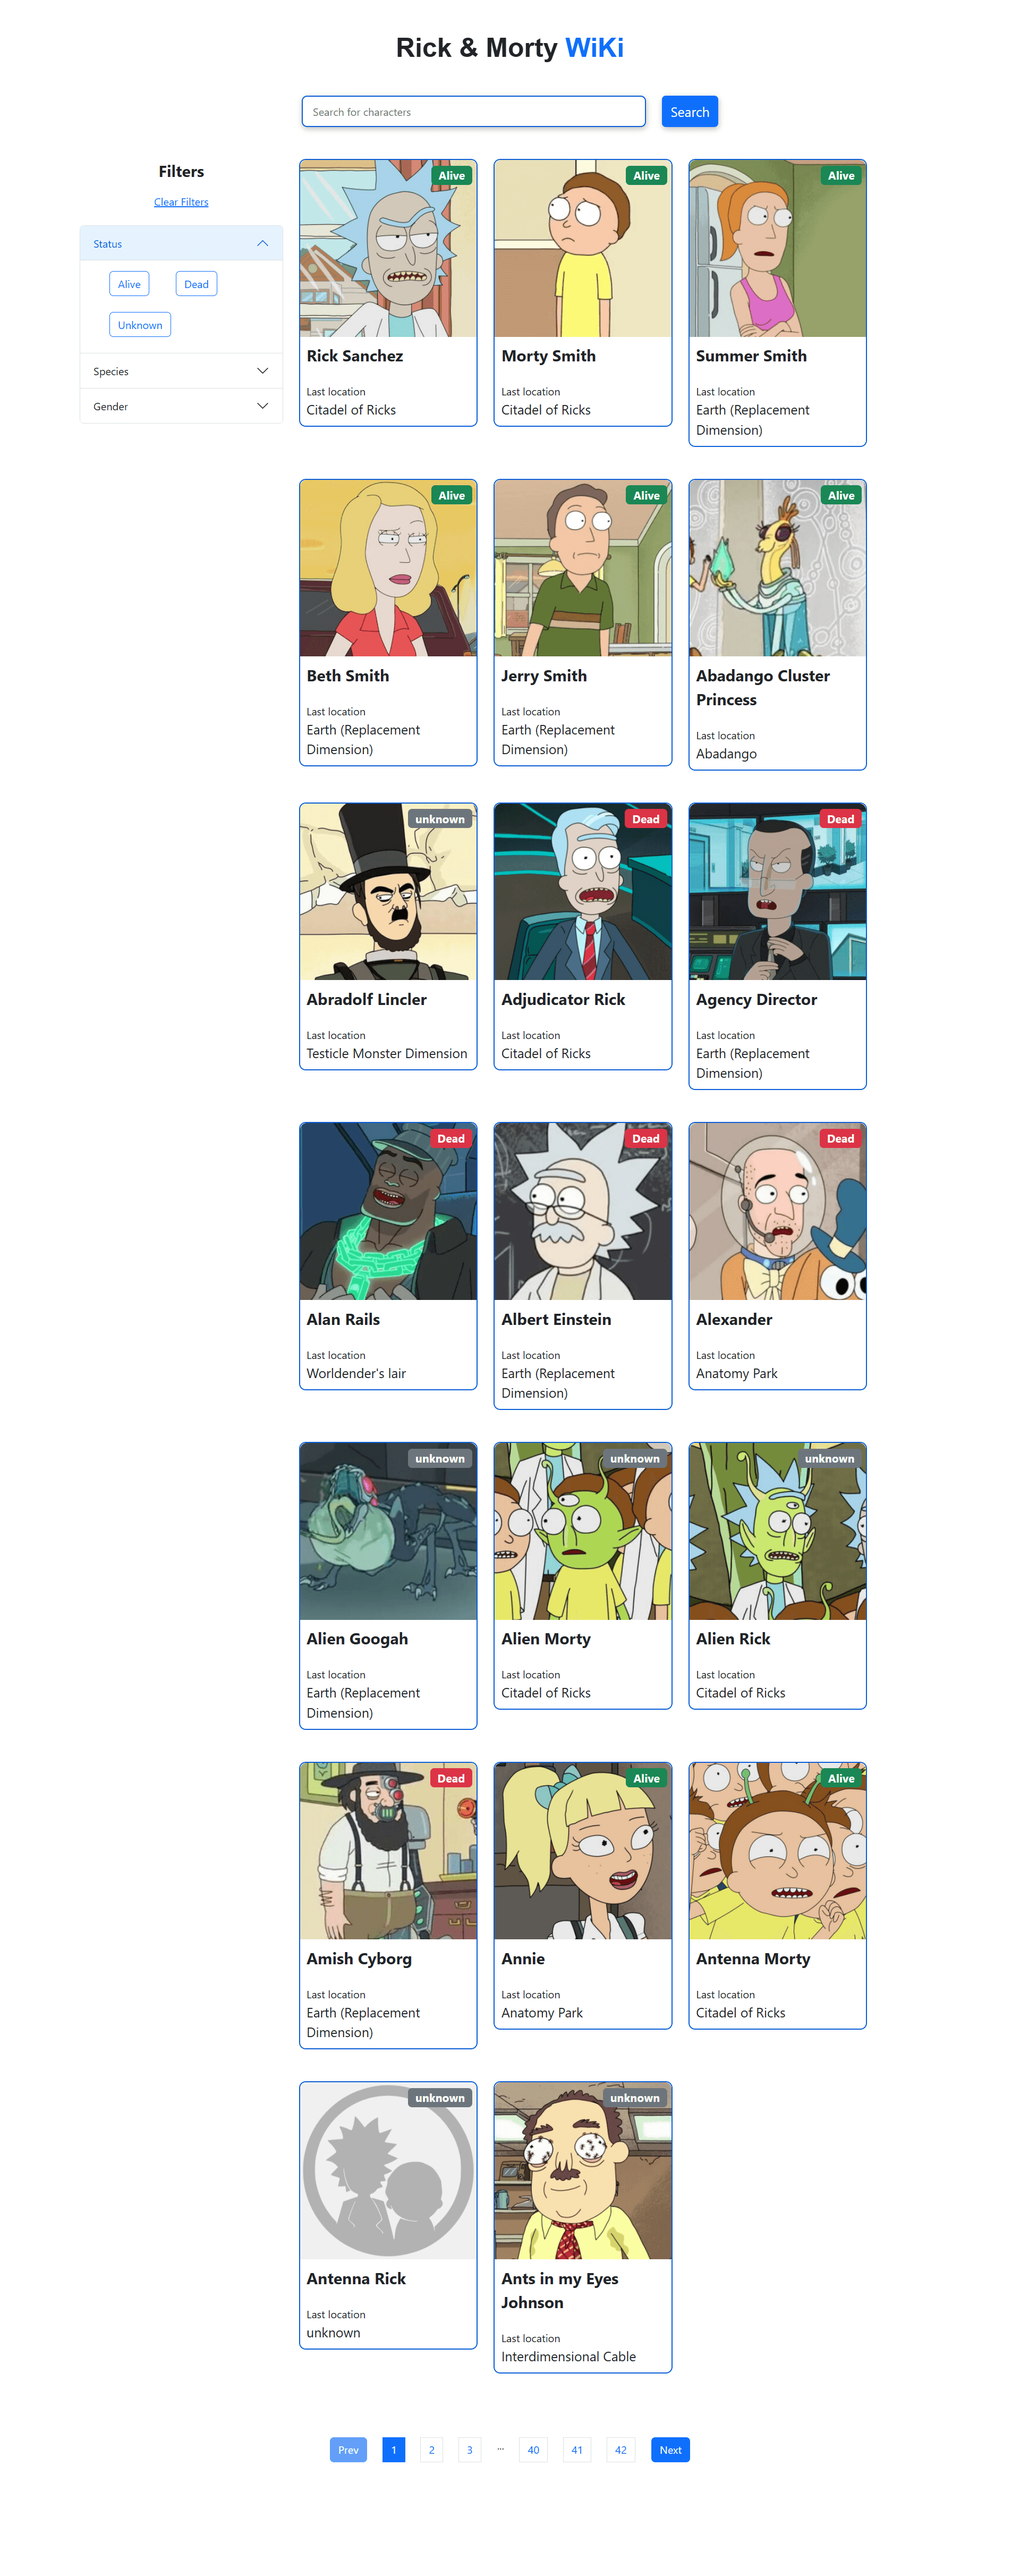
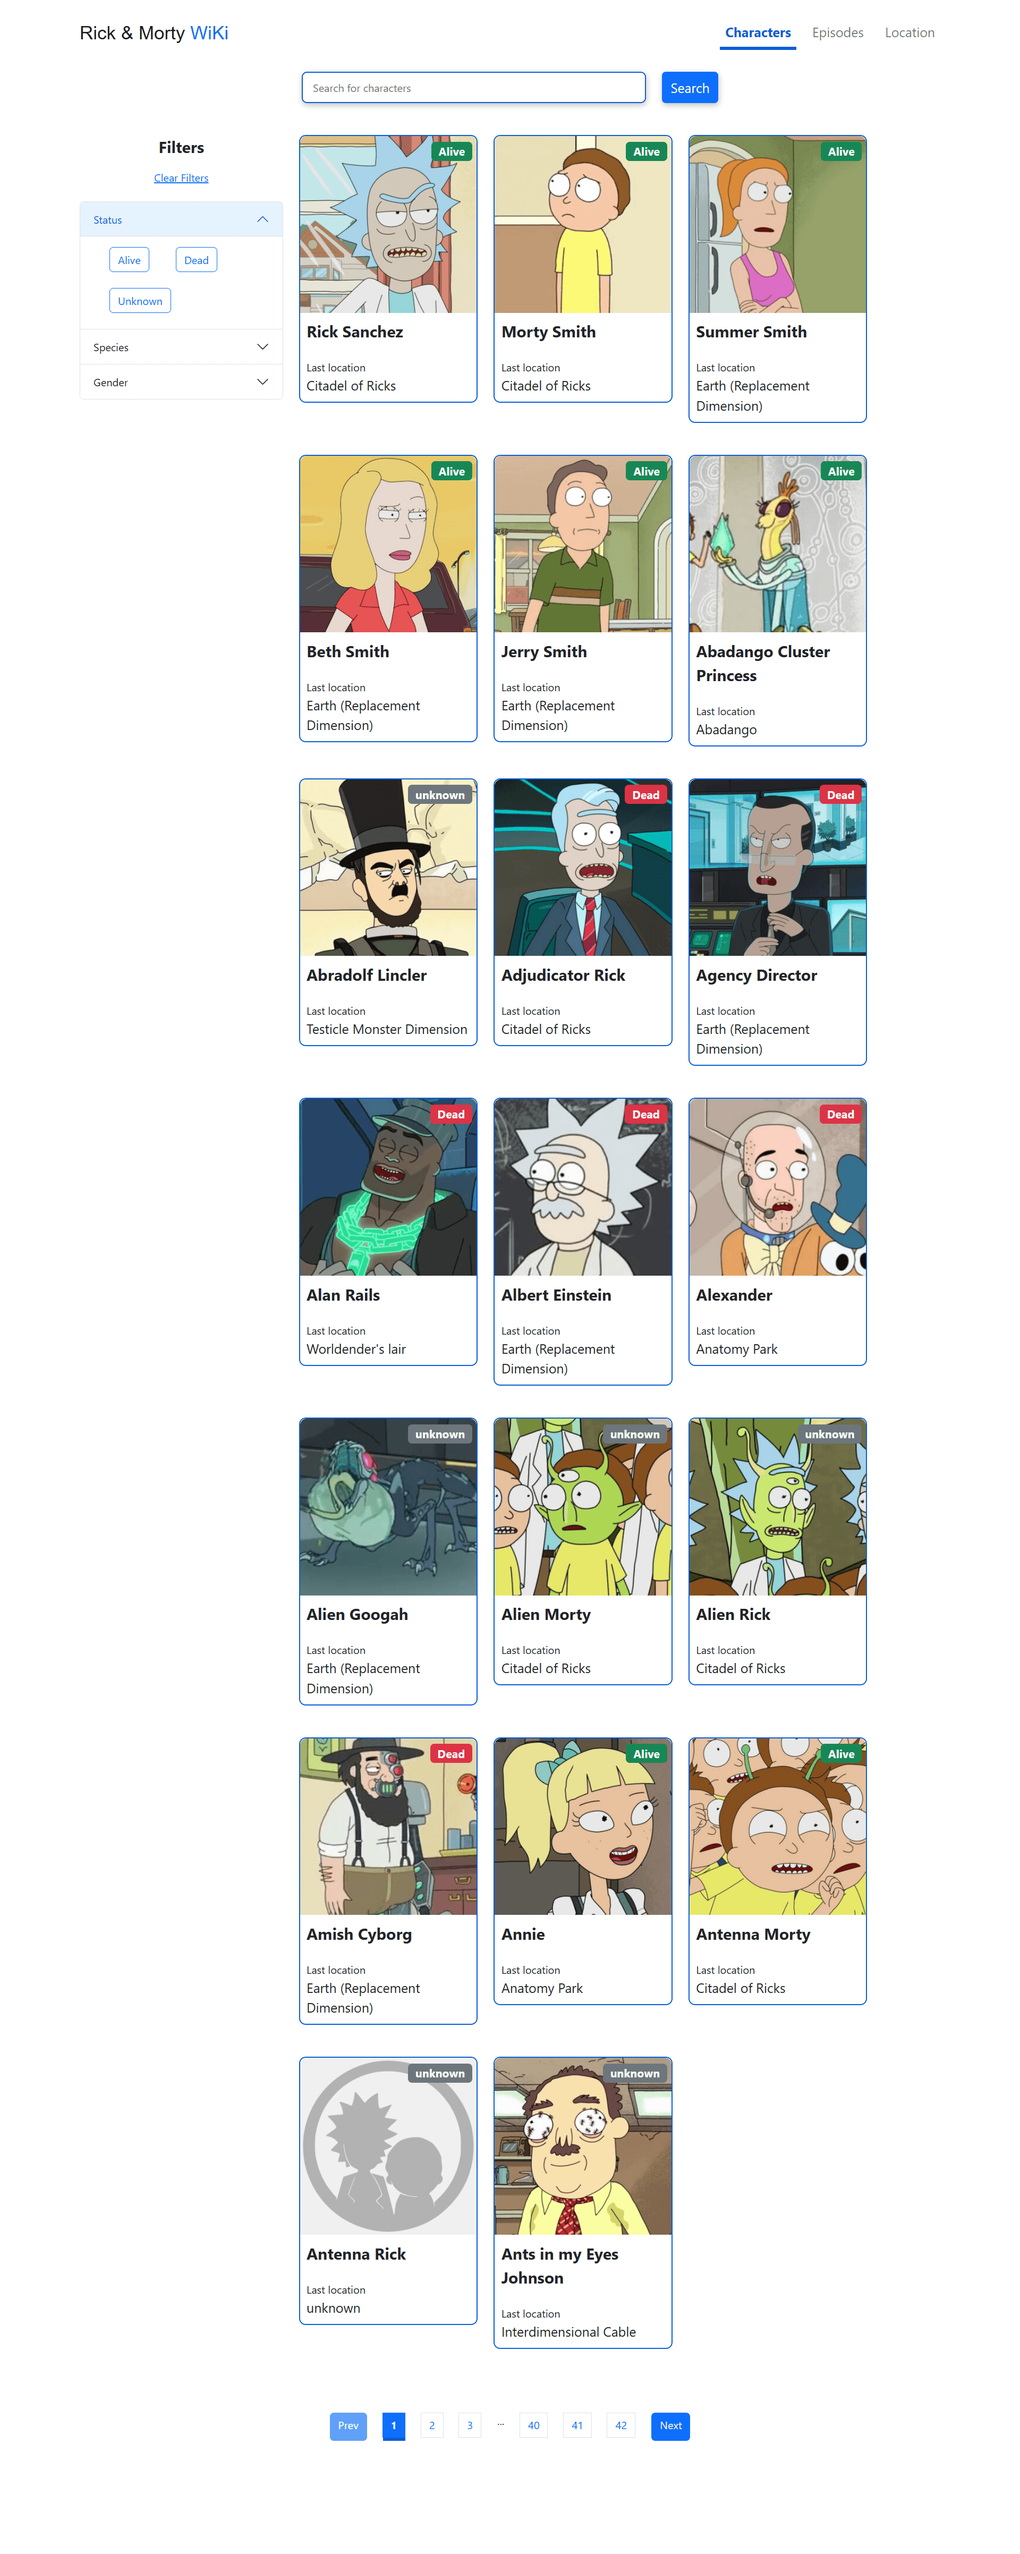
Add and config react router dom in character page

Changed region(s): [[0.0625, 0.0, 0.875, 0.9361]]

diff --git a/src/components/Navbar/Navbar.jsx b/src/components/Navbar/Navbar.jsx
@@ -1,0 +1,44 @@
+import { NavLink, Link } from 'react-router-dom'
+
+const Navbar = () => {
+  return (
+    <nav className="navbar navbar-expand-lg bg-body-tertiary mt-3 mb-4">
+        <div className="container">
+
+            <Link to="/" className="fs-3 ubuntu navbar-brand">
+                Rick & Morty <span className="text-primary"> WiKi </span>  
+            </Link>
+
+            <button className="navbar-toggler" type="button" data-bs-toggle="collapse" data-bs-target="#navbarNav" aria-controls="navbarNav" aria-expanded="false" aria-label="Toggle navigation">
+
+                <style jsx="true">
+                    {`
+                        button[aria-expanded="false"] > .close {
+                            display: none;
+                        }
+
+                        button[aria-expanded="true"] > .open {
+                            display: none;
+                        }
+                    `}
+                </style>
+
+                <i className="fas fa-bars open"></i>
+                <i className="fas fa-times close"></i>
+
+            </button>
+
+            <div className="collapse navbar-collapse justify-content-end" id="navbarNavAltMarkup">
+                <div className="navbar-nav fs-5 gap-3">
+                    <NavLink ActiveClassName="active" to="/" className="nav-link" > Characters </NavLink>            
+                    <NavLink ActiveClassName="active" to="/episodes" className="nav-link" > Episodes </NavLink>            
+                    <NavLink ActiveClassName="active" to="/location" className="nav-link" > Location </NavLink>    
+                </div>                
+            </div>
+
+        </div>
+    </nav>
+  )
+}
+
+export default Navbar

diff --git a/src/components/Filters/Category/Gender.jsx b/src/components/Filters/Category/Gender.jsx
@@ -5,25 +5,28 @@ const Gender = ({ task, setGender, setPageNumber }) => {
 
   return (
     <div className="accordion-item">
+
         <h2 className="accordion-header" id="headingOne">
             <button className="accordion-button collapsed" type="button" data-bs-toggle="collapse" data-bs-target="#collapseOne" aria-expanded="false" aria-controls="collapseOne">
             Gender
             </button>
         </h2>
+
         <div id="collapseOne" className="accordion-collapse collapse" aria-labelledby="headingThree" data-bs-parent="#accordionExample">
-            <div className="accordion-body d-flex flex-wrap gap-3">
-                {genders.map((item, index) => (
-                  <FilterButton 
-                    task={setGender}
-                    setPageNumber={setPageNumber}
-                    key={index} 
-                    name="gender" 
-                    index={index} 
-                    item={item} 
-                  />
-                ))}
-            </div>
+          <div className="accordion-body d-flex flex-wrap gap-3">
+              {genders.map((item, index) => (
+                <FilterButton 
+                  task={setGender}
+                  setPageNumber={setPageNumber}
+                  key={index} 
+                  name="gender" 
+                  index={index} 
+                  item={item} 
+                />
+              ))}
+          </div>
         </div>
+
     </div>
   )
 }

diff --git a/src/components/Filters/Category/Species.jsx b/src/components/Filters/Category/Species.jsx
@@ -17,10 +17,11 @@ const Species = ({ task, setSpecies, setPageNumber }) => {
 
   return (
     <div className="accordion-item">
+
         <h2 className="accordion-header" id="headingTwo">
-        <button className="accordion-button collapsed" type="button" data-bs-toggle="collapse" data-bs-target="#collapseTwo" aria-expanded="false" aria-controls="collapseTwo">
-            Species
-        </button>
+          <button className="accordion-button collapsed" type="button" data-bs-toggle="collapse" data-bs-target="#collapseTwo" aria-expanded="false" aria-controls="collapseTwo">
+              Species
+          </button>
         </h2>
 
         <div id="collapseTwo" className="accordion-collapse collapse" aria-labelledby="headingTwo" data-bs-parent="#accordionExample">
@@ -28,7 +29,7 @@ const Species = ({ task, setSpecies, setPageNumber }) => {
           <div className="accordion-body d-flex flex-wrap gap-3">
             {species.map((item, index) => (
               <FilterButton 
-                task={setSpecies}
+                task={setSpecies} 
                 setPageNumber={setPageNumber}
                 key={index} 
                 name="species" 
@@ -37,6 +38,7 @@ const Species = ({ task, setSpecies, setPageNumber }) => {
               />
             ))}
           </div>
+
         </div>
     </div>
   )

diff --git a/src/App.jsx b/src/App.jsx
@@ -3,12 +3,34 @@ import {useState, useEffect} from 'react'
 import 'bootstrap/dist/css/bootstrap.min.css'
 import 'bootstrap/dist/js/bootstrap'
 
+import Navbar from './components/Navbar/Navbar'
 import Filters from './components/Filters/Filters';
 import Cards from './components/Cards/Cards';
 import Pagination from './components/Pagination/Pagination';
 import Search from './components/Search/Search';
 
+import {BrowserRouter as Router, Routes, Route} from 'react-router-dom'
+
+import Episodes from './Pages/Episodes'
+import Location from './Pages/Location'
+
 function App() {
+  return (
+    <Router>
+      <div className="App">
+          <Navbar />
+      </div>
+      <Routes>
+        <Route path="/" element={<Home />} />
+        <Route path="/episodes" element={<Episodes />} />
+        <Route path="/location" element={<Location />} />
+      </Routes>
+    </Router>
+  )
+}
+
+
+const Home = () => {
 
   let [pageNumber, setPageNumber] = useState(1)
   let [fetchedData, setFetchedData] = useState([])
@@ -32,10 +54,6 @@ function App() {
 
   return (
     <div className="App">
-
-      <h1 className="text-center my-5 ubuntu">
-        Rick & Morty <span className="text-primary"> WiKi </span>  
-      </h1>
 
       <Search setSearch={setSearch} setPageNumber={setPageNumber} />
 

diff --git a/src/components/Filters/FilterButton.jsx b/src/components/Filters/FilterButton.jsx
@@ -2,7 +2,7 @@
 const FilterButton = ({ name, index, item, task, setPageNumber }) => {
   return (
     <div>
-      <style jsx>
+      <style jsx='true'>
         {`
         .x:checked + label {
           background-color: #0b5ed7;
@@ -15,16 +15,17 @@ const FilterButton = ({ name, index, item, task, setPageNumber }) => {
       </style>
         <div className="form-check mb-2">
             <input 
-                onClick={() =>  {
-                  setPageNumber(1);
-                  task(item);
-                }}
-                className="form-check-input x" 
-                type="radio" 
-                name={name}
-                id={`${name}-${index}`} 
+              onClick={() =>  {
+                setPageNumber(1);
+                task(item);
+              }}
+              className="form-check-input x" 
+              type="radio" 
+              name={name}
+              id={`${name}-${index}`} 
             />
-            <label class="btn btn-outline-primary" for={`${name}-${index}`}>
+            
+            <label className="btn btn-outline-primary" htmlFor={`${name}-${index}`}>
                 {item}
             </label>
         </div>

diff --git a/src/components/Filters/Category/Status.jsx b/src/components/Filters/Category/Status.jsx
@@ -5,14 +5,14 @@ const Status = ({ setStatus, setPageNumber, task }) => {
 
   return (
     <div className="accordion-item">
-        <h2 className="accordion-header" id="headingThree">
-
+      
+      <h2 className="accordion-header" id="headingThree">
         <button className="accordion-button" type="button" data-bs-toggle="collapse" data-bs-target="#collapseThree" aria-expanded="true" aria-controls="collapseThree">
             Status
         </button>
-        </h2>
+      </h2>
 
-        <div id="collapseThree" className="accordion-collapse collapse show" aria-labelledby="headingOne" data-bs-parent="#accordionExample">
+      <div id="collapseThree" className="accordion-collapse collapse show" aria-labelledby="headingOne" data-bs-parent="#accordionExample">
 
         <div className="accordion-body d-flex flex-wrap gap-3">
           {status.map((item, index) => (
@@ -27,7 +27,7 @@ const Status = ({ setStatus, setPageNumber, task }) => {
           ))}
         </div>
 
-        </div>
+      </div>
     </div>
   )
 }

diff --git a/src/components/Filters/Filters.jsx b/src/components/Filters/Filters.jsx
@@ -11,10 +11,11 @@ const Filters = ({ setStatus, setSpecies, setGender, setPageNumber}) => {
     setPageNumber(1)
     window.location.reload(false)
   }
-  return (
-    <div className="col-3">
-      <div className="text-center fw-bold fs-4 mb-3"> Filters </div>
 
+  return (
+    <div className="col-3 ">
+      <div className="text-center fw-bold fs-4 mb-3"> Filters </div>
+    
       <div 
         onClick={clearFilters}
         style={{cursor: 'pointer'}} 
@@ -22,7 +23,7 @@ const Filters = ({ setStatus, setSpecies, setGender, setPageNumber}) => {
           Clear Filters
       </div>
 
-      <div className="accordion" id="accordionExample">
+      <div className="accordion filter-focus" id="accordionExample">
         <Status setStatus={setStatus} setPageNumber={setPageNumber} />       
         <Species setSpecies={setSpecies} setPageNumber={setPageNumber} />
         <Gender setGender={setGender} setPageNumber={setPageNumber} />        

diff --git a/public/index.html b/public/index.html
@@ -24,6 +24,8 @@
       work correctly both with client-side routing and a non-root public URL.
       Learn how to configure a non-root public URL by running `npm run build`.
     -->
+    <link rel="stylesheet"
+    href="https://cdnjs.cloudflare.com/ajax/libs/font-awesome/5.15.4/css/all.min.css" />
     <title>Rick & Morty Wikia</title>
   </head>
   <body>

diff --git a/src/index.css b/src/index.css
@@ -14,3 +14,9 @@ li a {
   text-decoration: none;
   color: #fff;
 }
+
+.active {
+  border-bottom: 5px solid #0b5ed7;
+  font-weight: bold !important;
+  color: #0b5ed7 !important;
+}

diff --git a/src/Pages/Location.jsx b/src/Pages/Location.jsx
@@ -1,0 +1,9 @@
+
+
+const Location = () => {
+  return (
+    <div>The locations are here</div>
+  )
+}
+
+export default Location

diff --git a/src/Pages/Episodes.jsx b/src/Pages/Episodes.jsx
@@ -1,0 +1,9 @@
+
+
+const Episodes = () => {
+  return (
+    <div>The episodes are here</div>
+  )
+}
+
+export default Episodes

diff --git a/README.md b/README.md
@@ -5,6 +5,7 @@
 - Fetch info from Ricky and Morty API: 
     - https://rickandmortyapi.com/
 - Using SASS and Bootstrap
+- React Router Dom
 - React Paginate:
     - https://www.npmjs.com/package/react-paginate
 - Search bar to search for characters
